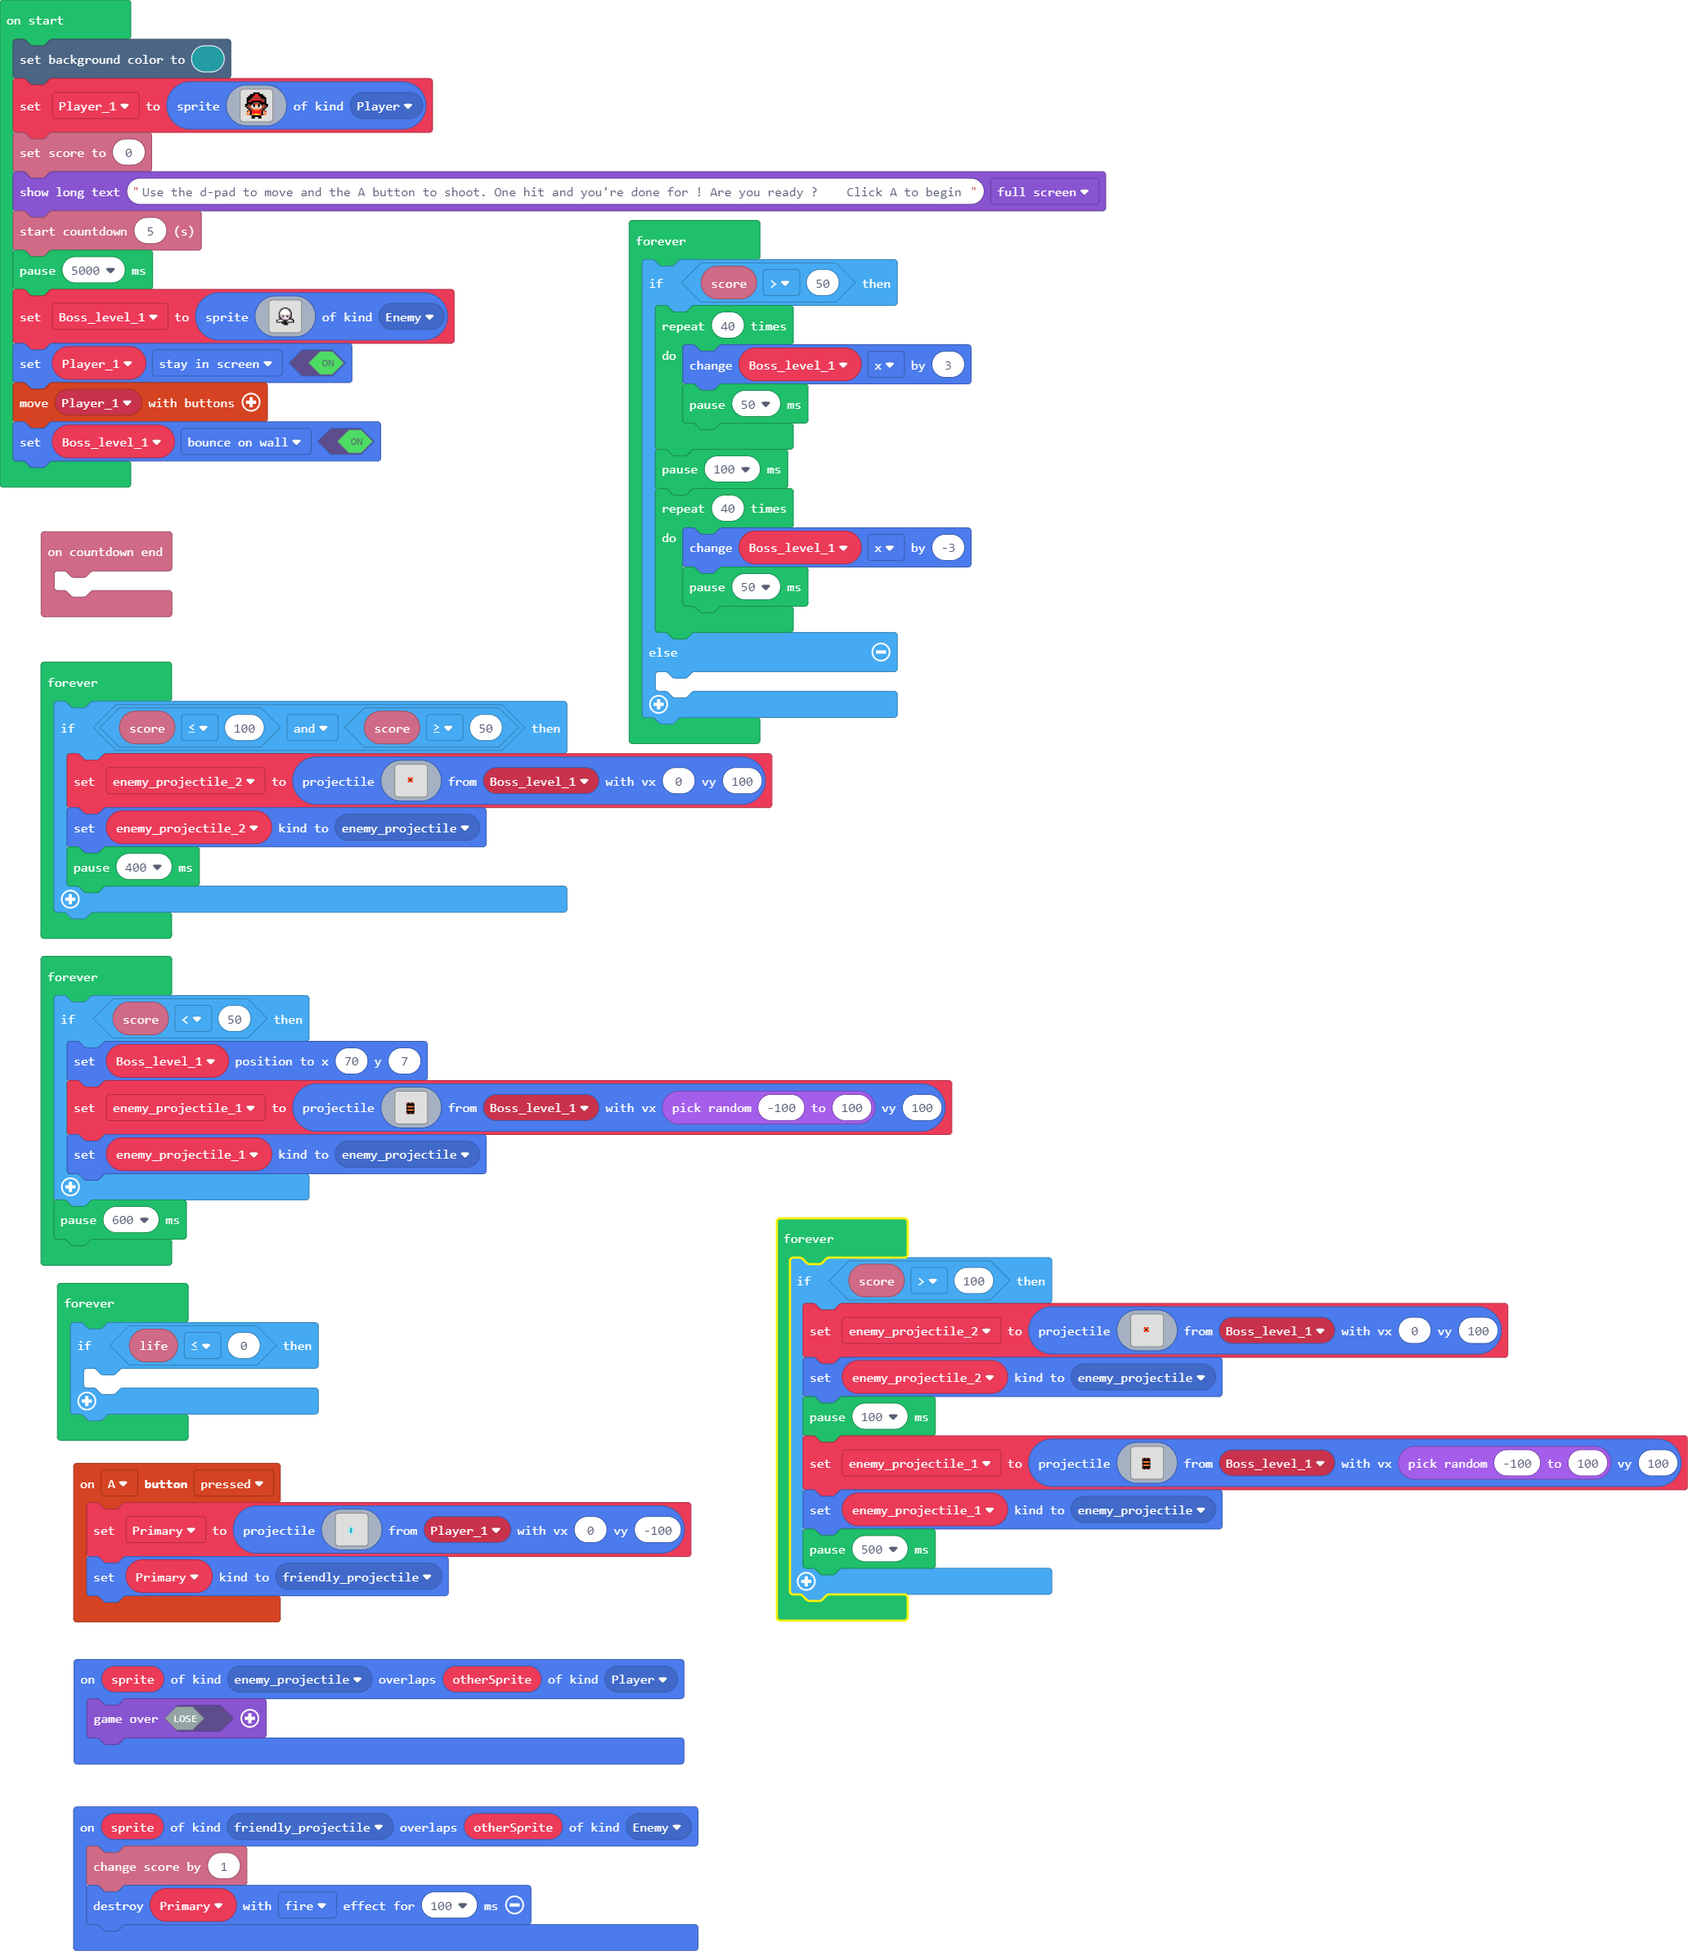
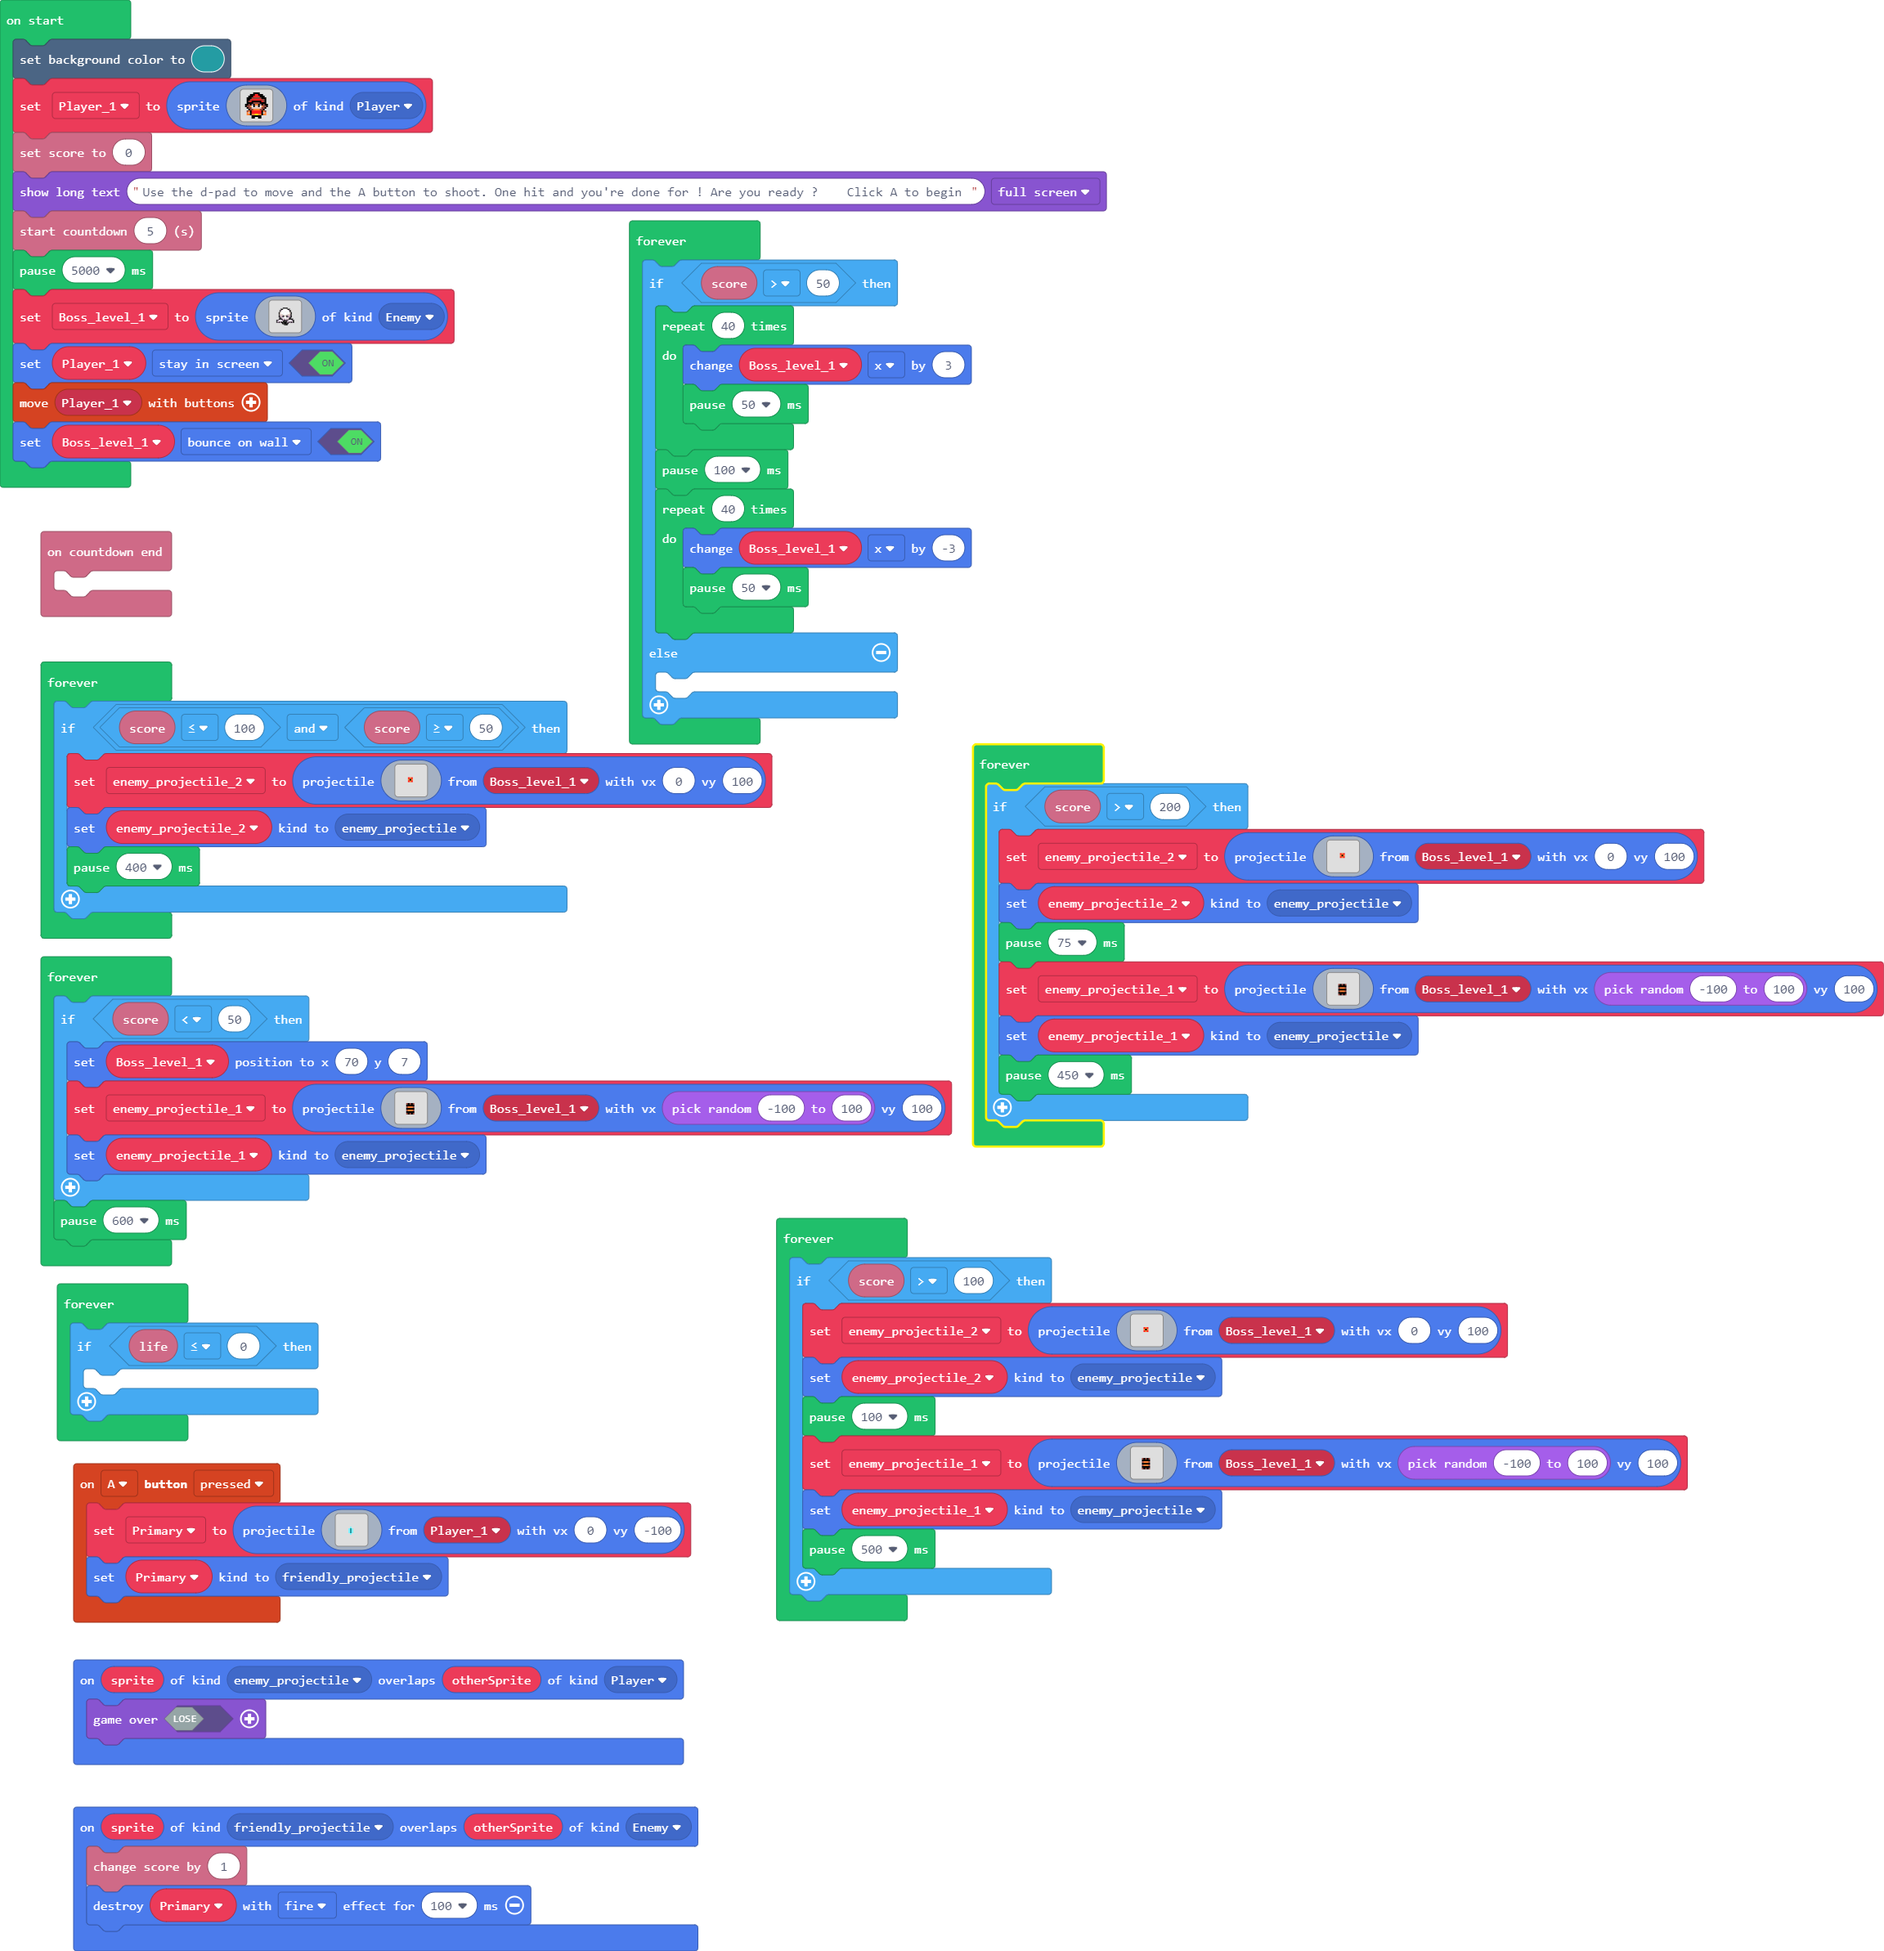
Actual final project

Changed region(s): [[0.0, 0.062, 1.0, 1.0], [0.0, 0.0, 0.2791, 0.2481], [0.0, 0.2791, 0.124, 0.3101]]

diff --git a/main.ts b/main.ts
@@ -130,6 +130,50 @@ forever(function () {
     }
 })
 forever(function () {
+    if (info.score() > 200) {
+        enemy_projectile_2 = sprites.createProjectileFromSprite(img`
+. . . . . . . . . . . . . . . . 
+. . . . . . . . . . . . . . . . 
+. . . . . . . . . . . . . . . . 
+. . . . . . . . . . . . . . . . 
+. . . . . . . . . . . . . . . . 
+. . . . . . . . . . . . . . . . 
+. . . . . . 2 4 2 . . . . . . . 
+. . . . . . 4 f 4 . . . . . . . 
+. . . . . . 2 4 2 . . . . . . . 
+. . . . . . . . . . . . . . . . 
+. . . . . . . . . . . . . . . . 
+. . . . . . . . . . . . . . . . 
+. . . . . . . . . . . . . . . . 
+. . . . . . . . . . . . . . . . 
+. . . . . . . . . . . . . . . . 
+. . . . . . . . . . . . . . . . 
+`, Boss_level_1, 0, 100)
+        enemy_projectile_2.setKind(SpriteKind.enemy_projectile)
+        pause(75)
+        enemy_projectile_1 = sprites.createProjectileFromSprite(img`
+. . . . . . . . . . . . . . . . 
+. . . . . . . . . . . . . . . . 
+. . . . . . . . . . . . . . . . 
+. . . . . . . . . . . . . . . . 
+. . . . . . . . . . . . . . . . 
+. . . . . e f e f e . . . . . . 
+. . . . . f f f f f . . . . . . 
+. . . . . e 4 4 4 e . . . . . . 
+. . . . . f f f f f . . . . . . 
+. . . . . e 4 4 4 e . . . . . . 
+. . . . . f f f f f . . . . . . 
+. . . . . e f e f e . . . . . . 
+. . . . . . . . . . . . . . . . 
+. . . . . . . . . . . . . . . . 
+. . . . . . . . . . . . . . . . 
+. . . . . . . . . . . . . . . . 
+`, Boss_level_1, Math.randomRange(-100, 100), 100)
+        enemy_projectile_1.setKind(SpriteKind.enemy_projectile)
+        pause(450)
+    }
+})
+forever(function () {
     if (info.score() < 50) {
         Boss_level_1.setPosition(70, 7)
         enemy_projectile_1 = sprites.createProjectileFromSprite(img`
